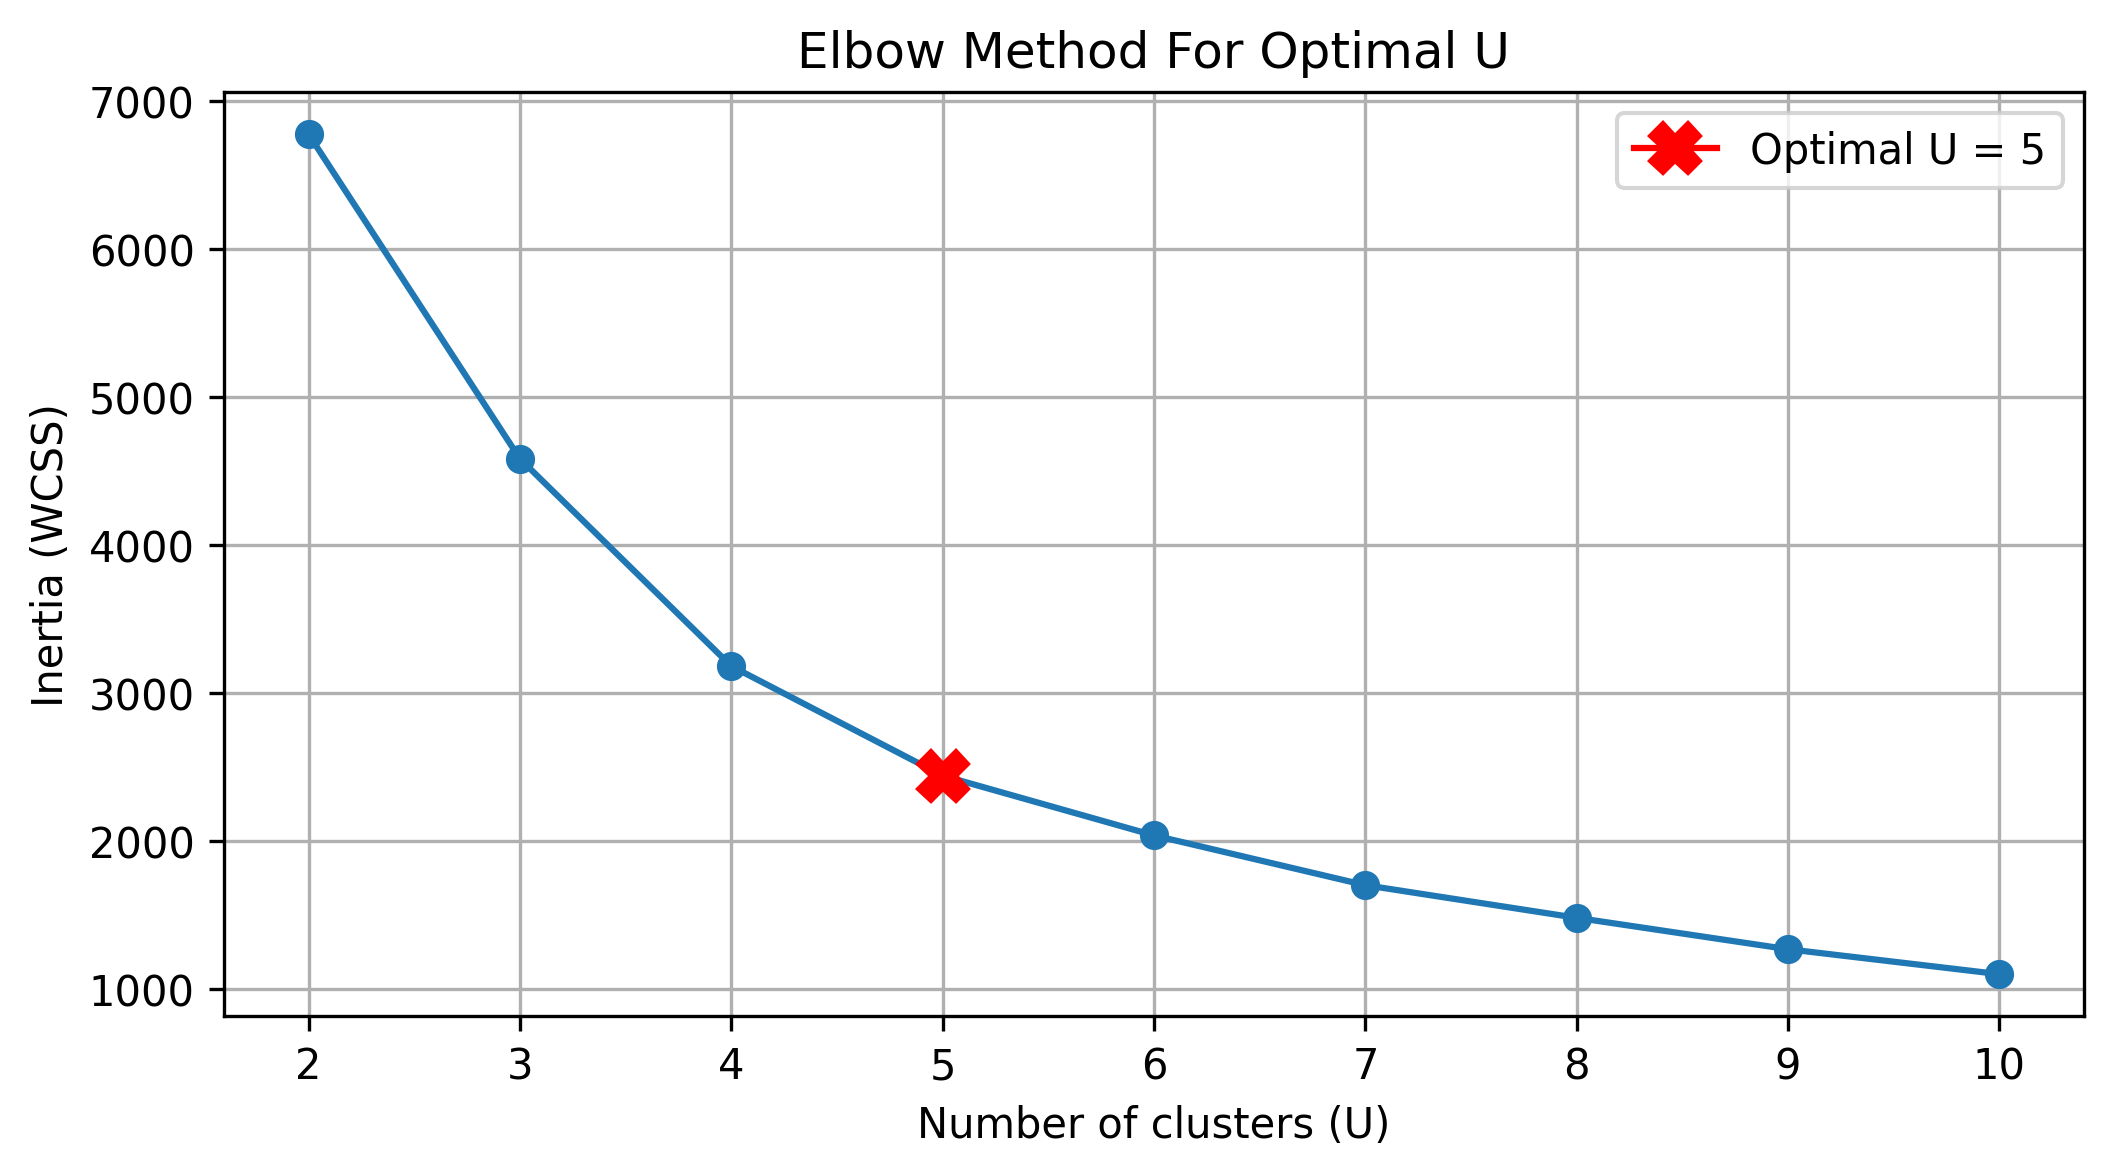
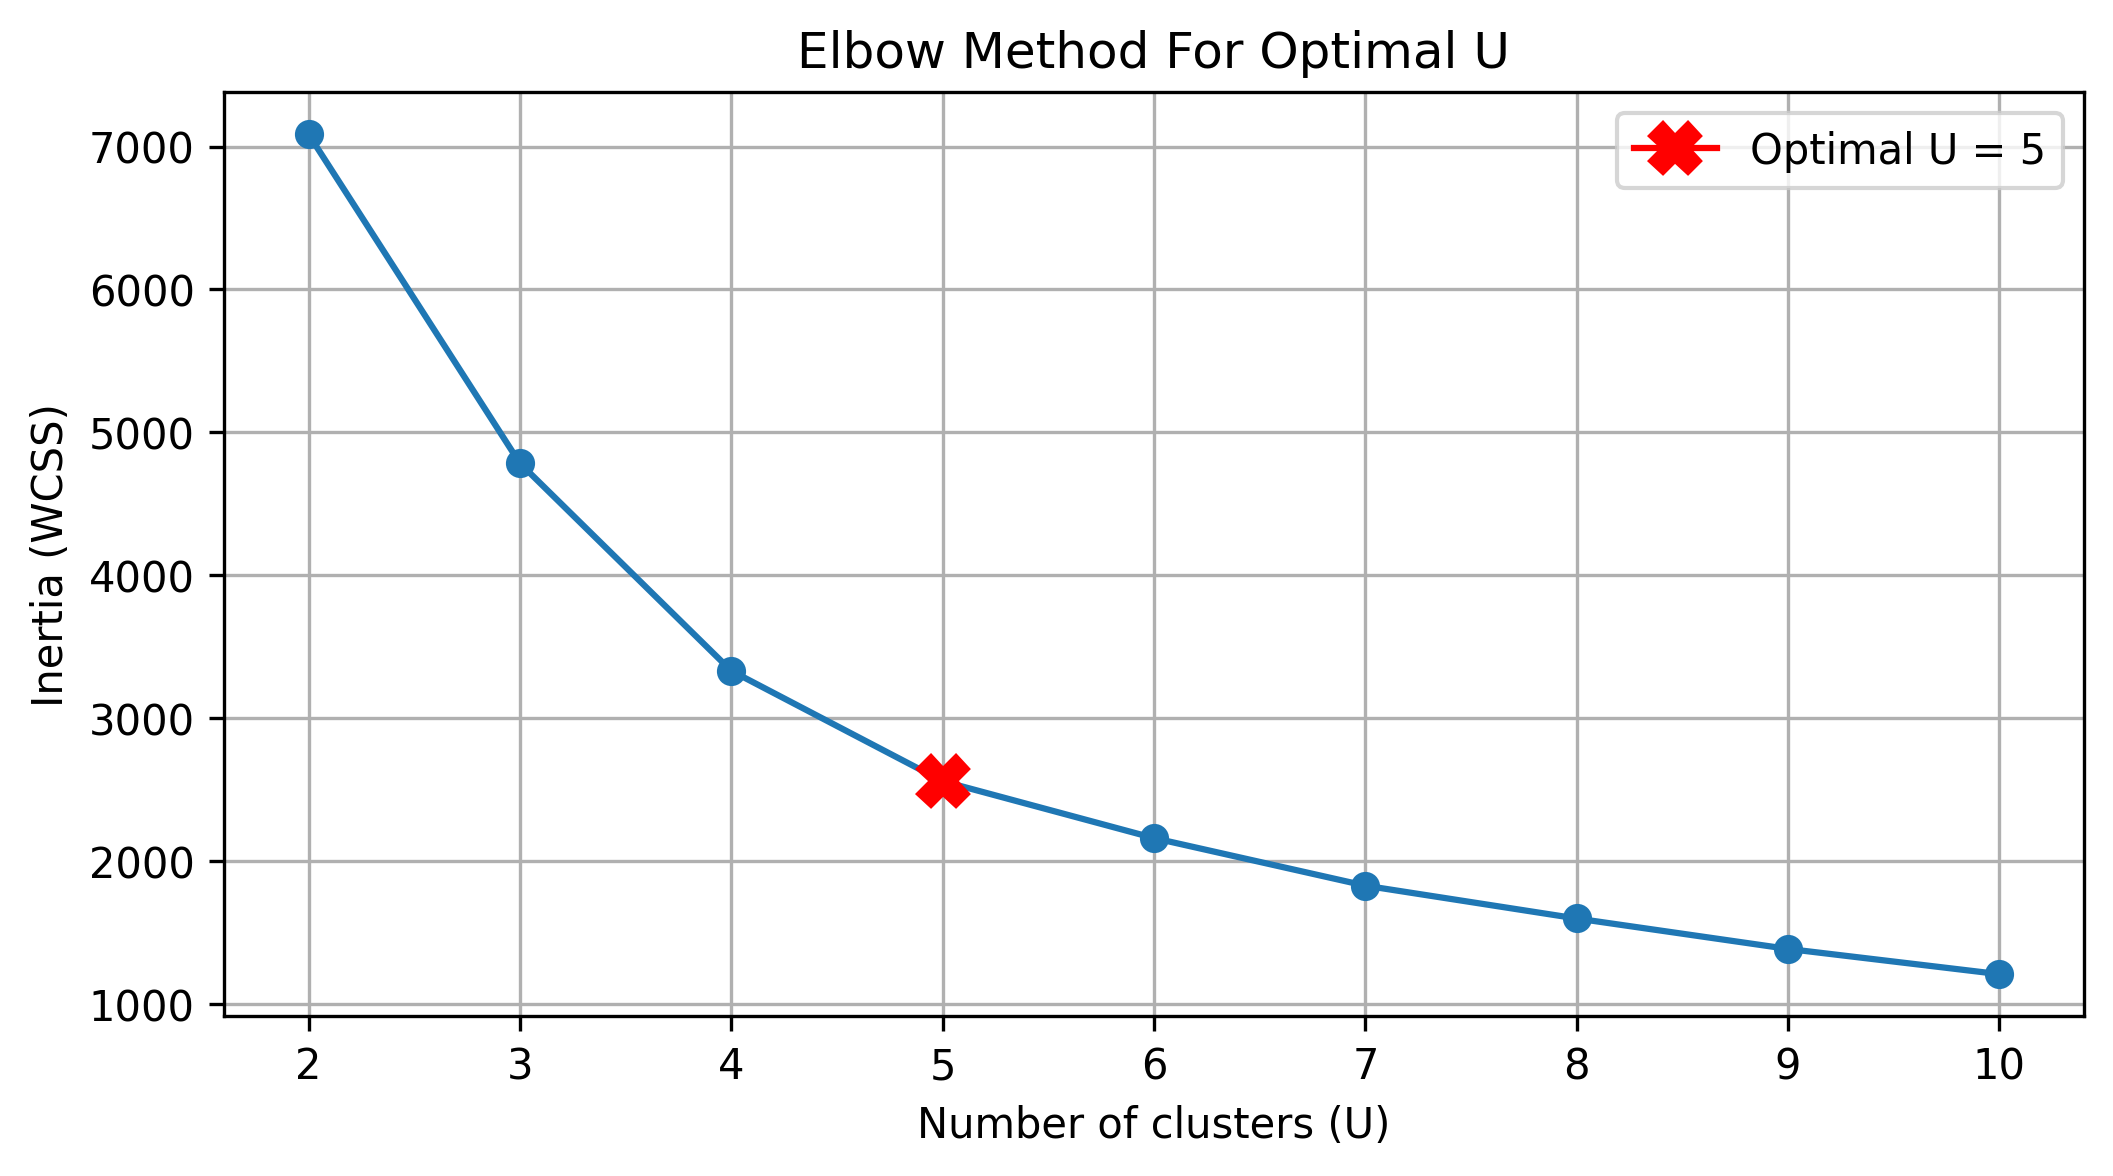
前置

diff --git a/multibeam/GridCell.py b/multibeam/GridCell.py
@@ -22,7 +22,7 @@ def calculate_optimal_mesh_size(data_path, min_error=0.001):
     A = np.pi * xi**2
 
     print(f"xi: {xi:.2f}, A: {A:.2f}")
-    # 2. 设定控制精度的目标误差阈值 (例如 1% 的相对误差)
+    # 2. 设定控制精度的目标误差阈值 (默认 0.1% 的相对误差)
     error_threshold = min_error
 
     # 3. 初始化寻优参数
@@ -72,49 +72,64 @@ def calculate_optimal_mesh_size(data_path, min_error=0.001):
     return optimal_d
 
 
-def adjust_mesh_size_to_fit_domain(d_optimal, x_range, y_range, tolerance=0.05):
+def generate_coordinate_array(x_min, x_max, y_min, y_max, d):
     """
-    找到最接近 d_optimal 且能整除海域尺寸的网格边长。
+    使用固定步长 d 生成覆盖整个海域的坐标数组。
 
-    通过调整分段数，使网格边长恰好整除 X 和 Y 方向的海域范围，
-    保证 xs[-1] == x_max, ys[-1] == y_max，面积计算精确。
+    采用 arange 策略：以 d 为步长从起点生成坐标，末端自然延伸
+    确保覆盖整个海域。超出海域边界的网格在后续计算中通过掩码过滤。
+
+    优势:
+        - 网格间距严格等于 d，几何精度不受损
+        - 天然覆盖整个海域，无需妥协 d 的值（不受质数问题影响）
+        - 末端超出的网格通过掩码自动过滤，不影响面积计算
 
     参数:
-        d_optimal: 原始最优网格边长（仅考虑几何精度）
-        x_range: X 方向海域宽度 (x_max - x_min)
-        y_range: Y 方向海域长度 (y_max - y_min)
-        tolerance: 允许偏离 d_optimal 的最大比例（默认 5%）
+        x_min, x_max: X 方向海域边界
+        y_min, y_max: Y 方向海域边界
+        d: 最优网格边长（直接使用，不做妥协调整）
 
     返回:
-        d_aligned: 对齐后的网格边长
+        xs: X 坐标数组 (一维, 间距严格等于 d)
+        ys: Y 坐标数组 (一维, 间距严格等于 d)
+        boundary_mask: 二维布尔掩码 (rows x cols), True 表示网格中心在海域内
     """
-    n_x_ideal = x_range / d_optimal
-    n_y_ideal = y_range / d_optimal
+    # arange 右端 +d 确保末端网格中心能覆盖到边界
+    xs = np.arange(x_min, x_max + d, d)
+    ys = np.arange(y_min, y_max + d, d)
 
-    candidates = []
-    for n_x in range(max(1, int(n_x_ideal) - 10), int(n_x_ideal) + 11):
-        for n_y in range(max(1, int(n_y_ideal) - 10), int(n_y_ideal) + 11):
-            # 取较小的 d 保证两个方向都能恰好覆盖
-            d = min(x_range / n_x, y_range / n_y)
-            deviation = abs(d - d_optimal) / d_optimal
-            if deviation <= tolerance:
-                candidates.append((deviation, d, n_x, n_y))
+    # 生成网格中心坐标
+    grid_x, grid_y = np.meshgrid(xs, ys)
 
-    if not candidates:
-        # 放宽 tolerance 重试
-        return adjust_mesh_size_to_fit_domain(
-            d_optimal, x_range, y_range, tolerance + 0.05
-        )
-
-    # 选偏离 optimal_d 最小的候选
-    candidates.sort()
-    _, d_best, n_x, n_y = candidates[0]
-    print(
-        f"网格对齐: d_optimal={d_optimal:.2f} → d_aligned={d_best:.2f}m "
-        f"(X分{n_x}段, Y分{n_y}段, 偏差{abs(d_best - d_optimal) / d_optimal:.2%})"
+    # 边界掩码：网格中心在海域范围内（允许半个网格的容差）
+    half_d = d / 2
+    boundary_mask = (
+        (grid_x >= x_min - half_d)
+        & (grid_x <= x_max + half_d)
+        & (grid_y >= y_min - half_d)
+        & (grid_y <= y_max + half_d)
     )
-    return d_best
+
+    effective_cells = np.sum(boundary_mask)
+    total_cells = len(xs) * len(ys)
+    print(
+        f"坐标数组: X方向{len(xs)}点, Y方向{len(ys)}点, "
+        f"有效网格{effective_cells}/{total_cells} "
+        f"(末端超出{total_cells - effective_cells}个网格将被过滤)"
+    )
+
+    return xs, ys, boundary_mask
 
 
 if __name__ == "__main__":
-    print(calculate_optimal_mesh_size(Path(__file__).parents[1] / "data" / "data.xlsx"))
+    d_optimal = calculate_optimal_mesh_size(
+        Path(__file__).parents[1] / "data" / "data.xlsx"
+    )
+
+    if d_optimal:
+        # 测试新坐标生成方案
+        X_MIN, X_MAX = 0, 5 * 1852
+        Y_MIN, Y_MAX = 0, 4 * 1852
+        xs, ys, mask = generate_coordinate_array(X_MIN, X_MAX, Y_MIN, Y_MAX, d_optimal)
+        print(f"xs 范围: [{xs[0]:.2f}, {xs[-1]:.2f}], 间距: {xs[1] - xs[0]:.2f}")
+        print(f"ys 范围: [{ys[0]:.2f}, {ys[-1]:.2f}], 间距: {ys[1] - ys[0]:.2f}")

diff --git a/multibeam/Coverage.py b/multibeam/Coverage.py
@@ -6,43 +6,59 @@ from tool import Data
 def generate_resampled_grid(x_min, x_max, y_min, y_max, d):
     """
     根据最优网格边长 d 和预测模型，重新生成指定范围的海域深度矩阵。
-    使用 linspace 保证端点精确对齐: xs[-1] == x_max, ys[-1] == y_max
-    """
-    # 计算分段数（d 已通过 adjust_mesh_size_to_fit_domain 对齐，应恰好整除）
-    n_cols = int(round((x_max - x_min) / d))
-    n_rows = int(round((y_max - y_min) / d))
+    使用 arange 策略：以 d 为固定步长生成坐标，末端自然延伸覆盖整个海域。
 
-    xs = np.linspace(x_min, x_max, n_cols + 1)
-    ys = np.linspace(y_min, y_max, n_rows + 1)
+    优势：
+        - 网格间距严格等于 d，几何精度不受损
+        - 天然覆盖整个海域，不受质数/整除问题影响
+        - 末端超出海域的网格通过 boundary_mask 过滤
+
+    返回:
+        xs: X 坐标数组 (间距严格等于 d)
+        ys: Y 坐标数组 (间距严格等于 d)
+        Z: 深度矩阵 (rows x cols)
+        boundary_mask: 二维布尔掩码，True 表示网格在海域内
+    """
+    from multibeam.GridCell import generate_coordinate_array
+
+    xs, ys, boundary_mask = generate_coordinate_array(x_min, x_max, y_min, y_max, d)
 
     rows = len(ys)
     cols = len(xs)
     Z = np.zeros((rows, cols))
 
     print(f"正在使用模型生成重采样网格 (维度: {rows} x {cols}, 网格边长: {d:.2f}m)...")
-    print(f"  X 范围: [{xs[0]:.2f}, {xs[-1]:.2f}] ({n_cols} 段)")
-    print(f"  Y 范围: [{ys[0]:.2f}, {ys[-1]:.2f}] ({n_rows} 段)")
+    print(
+        f"  X 范围: [{xs[0]:.2f}, {xs[-1]:.2f}] (实际海域: [{x_min:.2f}, {x_max:.2f}])"
+    )
+    print(
+        f"  Y 范围: [{ys[0]:.2f}, {ys[-1]:.2f}] (实际海域: [{y_min:.2f}, {y_max:.2f}])"
+    )
 
     # 遍历所有网格中心，预测深度
     for i in range(rows):
         for j in range(cols):
             Z[i, j] = Data.get_height(xs[j], ys[i])
 
-    return xs, ys, Z
+    return xs, ys, Z, boundary_mask
 
 
 def calculate_coverage_matrix_with_ml(x_min, x_max, y_min, y_max, d, theta=120):
     """
     结合机器学习深度预测模型和最优网格 d，计算覆盖次数矩阵。
     """
-    # 1. 调用模型重采样，获取全新的 Z 矩阵
-    xs, ys, Z = generate_resampled_grid(x_min, x_max, y_min, y_max, d)
+    # 1. 调用模型重采样，获取全新的 Z 矩阵和边界掩码
+    xs, ys, Z, boundary_mask = generate_resampled_grid(x_min, x_max, y_min, y_max, d)
 
     rows, cols = Z.shape
     times_mat = np.zeros((rows, cols), dtype=int)
 
     # 2. 获取全局最大水深，计算覆盖邻域边界
-    max_depth = np.max(Z)
+    # 仅使用海域内的有效深度
+    valid_depths = Z[boundary_mask]
+    if len(valid_depths) == 0:
+        raise ValueError("边界掩码内无有效网格，请检查坐标范围与网格边长 d 的设置。")
+    max_depth = np.max(valid_depths)
     # 根据现有测量标准考虑先验海图最大水深计算最大有效测深宽度 [cite: 38]
     w_max = max_depth * np.tan(np.radians(theta / 2)) * 2
 
@@ -56,6 +72,10 @@ def calculate_coverage_matrix_with_ml(x_min, x_max, y_min, y_max, d, theta=120):
     # 3. 遍历每一个网格进行邻域覆盖判定
     for i in range(rows):
         for j in range(cols):
+            # 跳过海域范围外的网格
+            if not boundary_mask[i, j]:
+                continue
+
             D_center = Z[i, j]
 
             # 限定局部邻域边界 (防止搜出数组越界)
@@ -89,7 +109,7 @@ def calculate_coverage_matrix_with_ml(x_min, x_max, y_min, y_max, d, theta=120):
                 theta_rad = np.radians(theta)
                 # 2. 计算带符号的真实坡度角 alpha_signed
                 # 使用反正切 arctan(垂直高度差 / 水平距离)
-                # 注意：前提是 Z 矩阵代表“深度”(越大越深)。若 Z 代表“海拔高度”(越小越深)，则需写成 (Z_neighbor - D_center)
+                # 注意：前提是 Z 矩阵代表"深度"(越大越深)。若 Z 代表"海拔高度"(越小越深)，则需写成 (Z_neighbor - D_center)
                 alpha_signed = np.arctan((D_center - Z_neighbor) / dis_xoy)
 
                 # 3. 统一使用一套公式，符号会自动调节加减

diff --git a/multibeam/Partition.py b/multibeam/Partition.py
@@ -1,5 +1,6 @@
 import matplotlib.pyplot as plt
 import numpy as np
+from pathlib import Path
 from sklearn.cluster import KMeans
 from sklearn.preprocessing import StandardScaler
 
@@ -50,7 +51,9 @@ def find_optimal_k_elbow(features, k_min=2, k_max=10):
     plt.ylabel("Inertia (WCSS)")
     plt.legend()
     plt.grid(True)
-    plt.savefig("./multibeam/output/elbow/elbow_method.png", dpi=300, bbox_inches="tight")
+    output_dir = Path("./multibeam/output/elbow")
+    output_dir.mkdir(parents=True, exist_ok=True)
+    plt.savefig(output_dir / "elbow_method.png", dpi=300, bbox_inches="tight")
     plt.close()
     return optimal_u
 
@@ -73,21 +76,22 @@ def partition_coverage_matrix(xs, ys, coverage_matrix, k_max=10):
     # 将空间坐标与覆盖次数拼接 (N, 3)
     features = np.hstack((feature_x, feature_y, feature_c))
 
-    # 2. 特征标准化 (极其重要！)
-    # 因为坐标值在几千 (米)，而覆盖次数只有几十，不缩放会导致 K-means 完全忽略覆盖次数
+    # 2. 特征缩放（修复：在标准化前计算权重，避免权重失效）
+    # 先计算原始特征的尺度差异，用于后续权重调节
+    std_xy_raw = np.std(features[:, :2])
+    std_c_raw = np.std(features[:, 2])
+
+    # 计算覆盖次数相对于空间坐标的权重比
+    # 目的：使覆盖次数维度的尺度与空间坐标维度相当
+    w_cover = std_xy_raw / (std_c_raw + 1e-6)
+
+    # 应用权重：放大覆盖次数维度
+    weighted_features = features.copy().astype(float)
+    weighted_features[:, 2] *= w_cover
+
+    # 再进行标准化，使各维度均值为0、方差为1
     scaler = StandardScaler()
-    scaled_features = scaler.fit_transform(features)
-
-    # 自动计算权重（核心）
-    std_xy = np.std(scaled_features[:, :2])
-    std_c = np.std(scaled_features[:, 2])
-
-    w_space = 1.0
-    w_cover = std_xy / (std_c + 1e-6)
-
-    # 应用权重
-    scaled_features[:, :2] *= w_space
-    scaled_features[:, 2] *= w_cover
+    scaled_features = scaler.fit_transform(weighted_features)
 
     # 3. 根据 Elbow 准则确定簇的数目 U
     optimal_u = find_optimal_k_elbow(scaled_features, k_min=2, k_max=k_max)
@@ -112,16 +116,18 @@ def partition_coverage_matrix(xs, ys, coverage_matrix, k_max=10):
         aspect="auto",
     )
 
-    levels = np.arange(optimal_u)
-    plt.contour(
-        grid_x,
-        grid_y,
-        cluster_matrix,
-        levels=levels + 0.5,
-        colors="black",
-        linewidths=1.5,
-        linestyles="dashed",
-    )
+    # 修复：轮廓线级别只需在簇之间绘制，避免冗余
+    levels = np.arange(0.5, optimal_u - 0.5)
+    if len(levels) > 0:  # U >= 3 时才需要边界线
+        plt.contour(
+            grid_x,
+            grid_y,
+            cluster_matrix,
+            levels=levels,
+            colors="black",
+            linewidths=1.5,
+            linestyles="dashed",
+        )
 
     plt.title(f"K-means Spatial Partitioning (U={optimal_u}) with Boundary Lines")
     plt.xlabel("X (m)")
@@ -130,7 +136,13 @@ def partition_coverage_matrix(xs, ys, coverage_matrix, k_max=10):
     # 防止坐标轴倒置（根据海图习惯，通常北向上，如果需要反转去掉此行即可）
     plt.gca().invert_yaxis()
     plt.colorbar(label="Cluster ID")
-    plt.savefig(f"./multibeam/output/partition/partition_U={optimal_u}.png", dpi=300, bbox_inches="tight")
+    output_dir = Path("./multibeam/output/partition")
+    output_dir.mkdir(parents=True, exist_ok=True)
+    plt.savefig(
+        output_dir / f"partition_U={optimal_u}.png",
+        dpi=300,
+        bbox_inches="tight",
+    )
     plt.close()
 
     return cluster_matrix, optimal_u

diff --git a/multibeam/Planner.py b/multibeam/Planner.py
@@ -134,7 +134,19 @@ class SurveyPlanner:
         "#17becf",
     ]
 
-    def __init__(self, xs, ys, cluster_matrix, step=50, theta=120, n=0.1):
+    def __init__(
+        self,
+        xs,
+        ys,
+        cluster_matrix,
+        step=50,
+        theta=120,
+        n=0.1,
+        x_min=None,
+        x_max=None,
+        y_min=None,
+        y_max=None,
+    ):
         self.xs = xs
         self.ys = ys
         self.cluster_matrix = cluster_matrix
@@ -143,10 +155,11 @@ class SurveyPlanner:
         self.theta_rad = np.radians(theta)
         self.n = n
 
-        self.x_min = float(xs[0])
-        self.x_max = float(xs[-1])
-        self.y_min = float(ys[0])
-        self.y_max = float(ys[-1])
+        # 支持传入真实海域边界（arange 策略下 xs[-1] 可能超出真实边界）
+        self.x_min = float(x_min) if x_min is not None else float(xs[0])
+        self.x_max = float(x_max) if x_max is not None else float(xs[-1])
+        self.y_min = float(y_min) if y_min is not None else float(ys[0])
+        self.y_max = float(y_max) if y_max is not None else float(ys[-1])
         self.total_area = (self.x_max - self.x_min) * (self.y_max - self.y_min)
 
         # Instant metric storage
@@ -911,7 +924,7 @@ def plan_line(start_x, start_y, xs, ys, cluster_matrix, n=0.1, step=50, theta=12
     return planner.plan_line(start_x, start_y)
 
 
-def plan_all_line(xs, ys, cluster_matrix, n=0.1, step=50, theta=120, total_area=None):
+def plan_all_line(xs, ys, cluster_matrix, n=0.1, step=50, theta=120):
     """向后兼容: 全局测线规划"""
     planner = SurveyPlanner(xs, ys, cluster_matrix, theta=theta, n=n, step=step)
     results = planner.plan_all()

diff --git a/main.py b/main.py
@@ -4,7 +4,6 @@ matplotlib.use("Agg")
 
 from multibeam.GridCell import (
     calculate_optimal_mesh_size,
-    adjust_mesh_size_to_fit_domain,
 )
 from multibeam.Coverage import calculate_coverage_matrix_with_ml
 from multibeam.Planner import SurveyPlanner
@@ -17,17 +16,16 @@ if __name__ == "__main__":
     X_MIN, X_MAX = 0, 5 * 1852
     Y_MIN, Y_MAX = 0, 4 * 1852
 
-    # Phase 1: 最优网格 + 对齐
+    # Phase 1: 最优网格（arange 策略，d 保持原始值不变）
     d_optimal = calculate_optimal_mesh_size(DATA_DIR)
-    d_aligned = adjust_mesh_size_to_fit_domain(d_optimal, X_MAX - X_MIN, Y_MAX - Y_MIN)
 
-    # Phase 2: 覆盖矩阵
+    # Phase 2: 覆盖矩阵（内部使用 arange 生成坐标 + 边界掩码过滤）
     xs, ys, depth_matrix, coverage_matrix = calculate_coverage_matrix_with_ml(
         x_min=X_MIN,
         x_max=X_MAX,
         y_min=Y_MIN,
         y_max=Y_MAX,
-        d=d_aligned,
+        d=d_optimal,
     )
     print(f"xs: {xs}\nys: {ys}")
 
@@ -35,6 +33,15 @@ if __name__ == "__main__":
     final_cluster_matrix, U = partition_coverage_matrix(xs, ys, coverage_matrix)
 
     # Phase 4: 测线规划（封装对象，即时指标）
-    planner = SurveyPlanner(xs, ys, final_cluster_matrix)
+    planner = SurveyPlanner(
+        xs,
+        ys,
+        final_cluster_matrix,
+        x_min=X_MIN,
+        x_max=X_MAX,
+        y_min=Y_MIN,
+        y_max=Y_MAX,
+    )
     planner.plan_all(output_dir="./multibeam/output")
     planner.save_metrics_excel("./multibeam/output")
+
